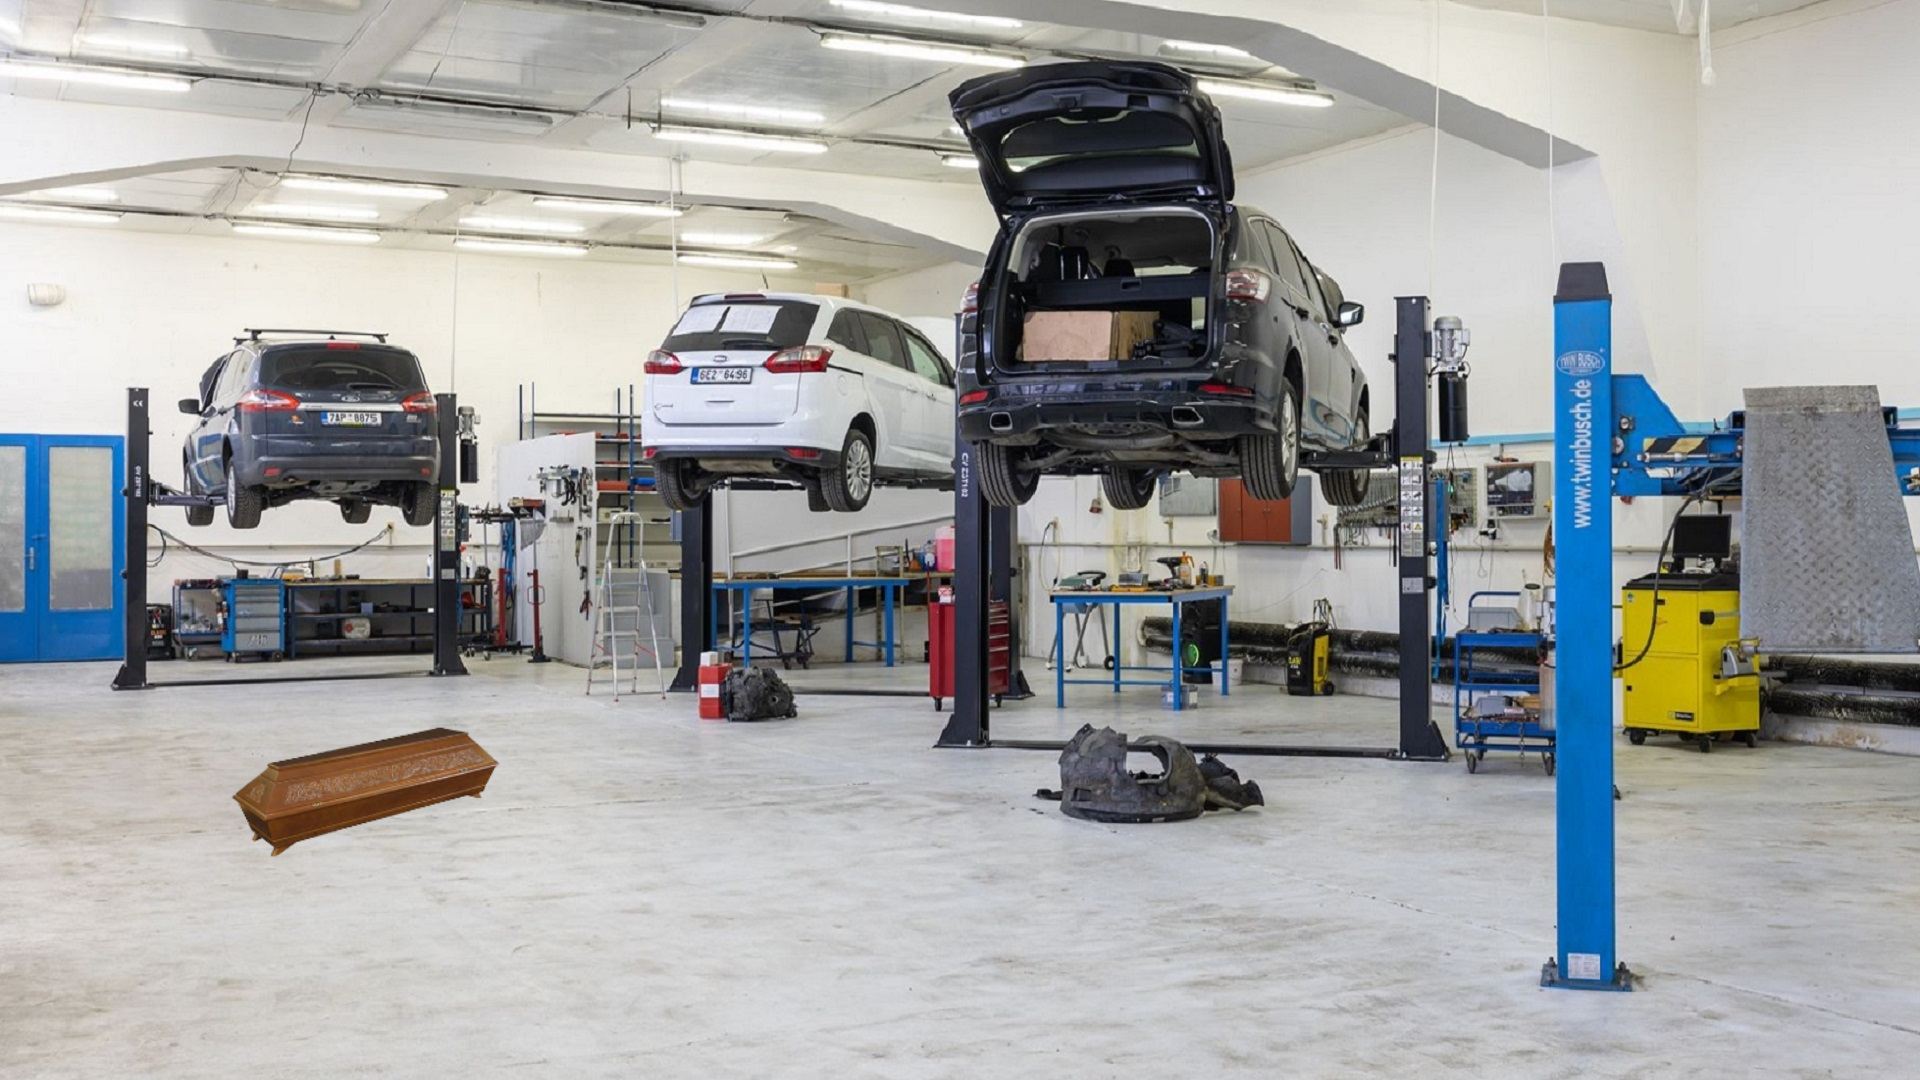
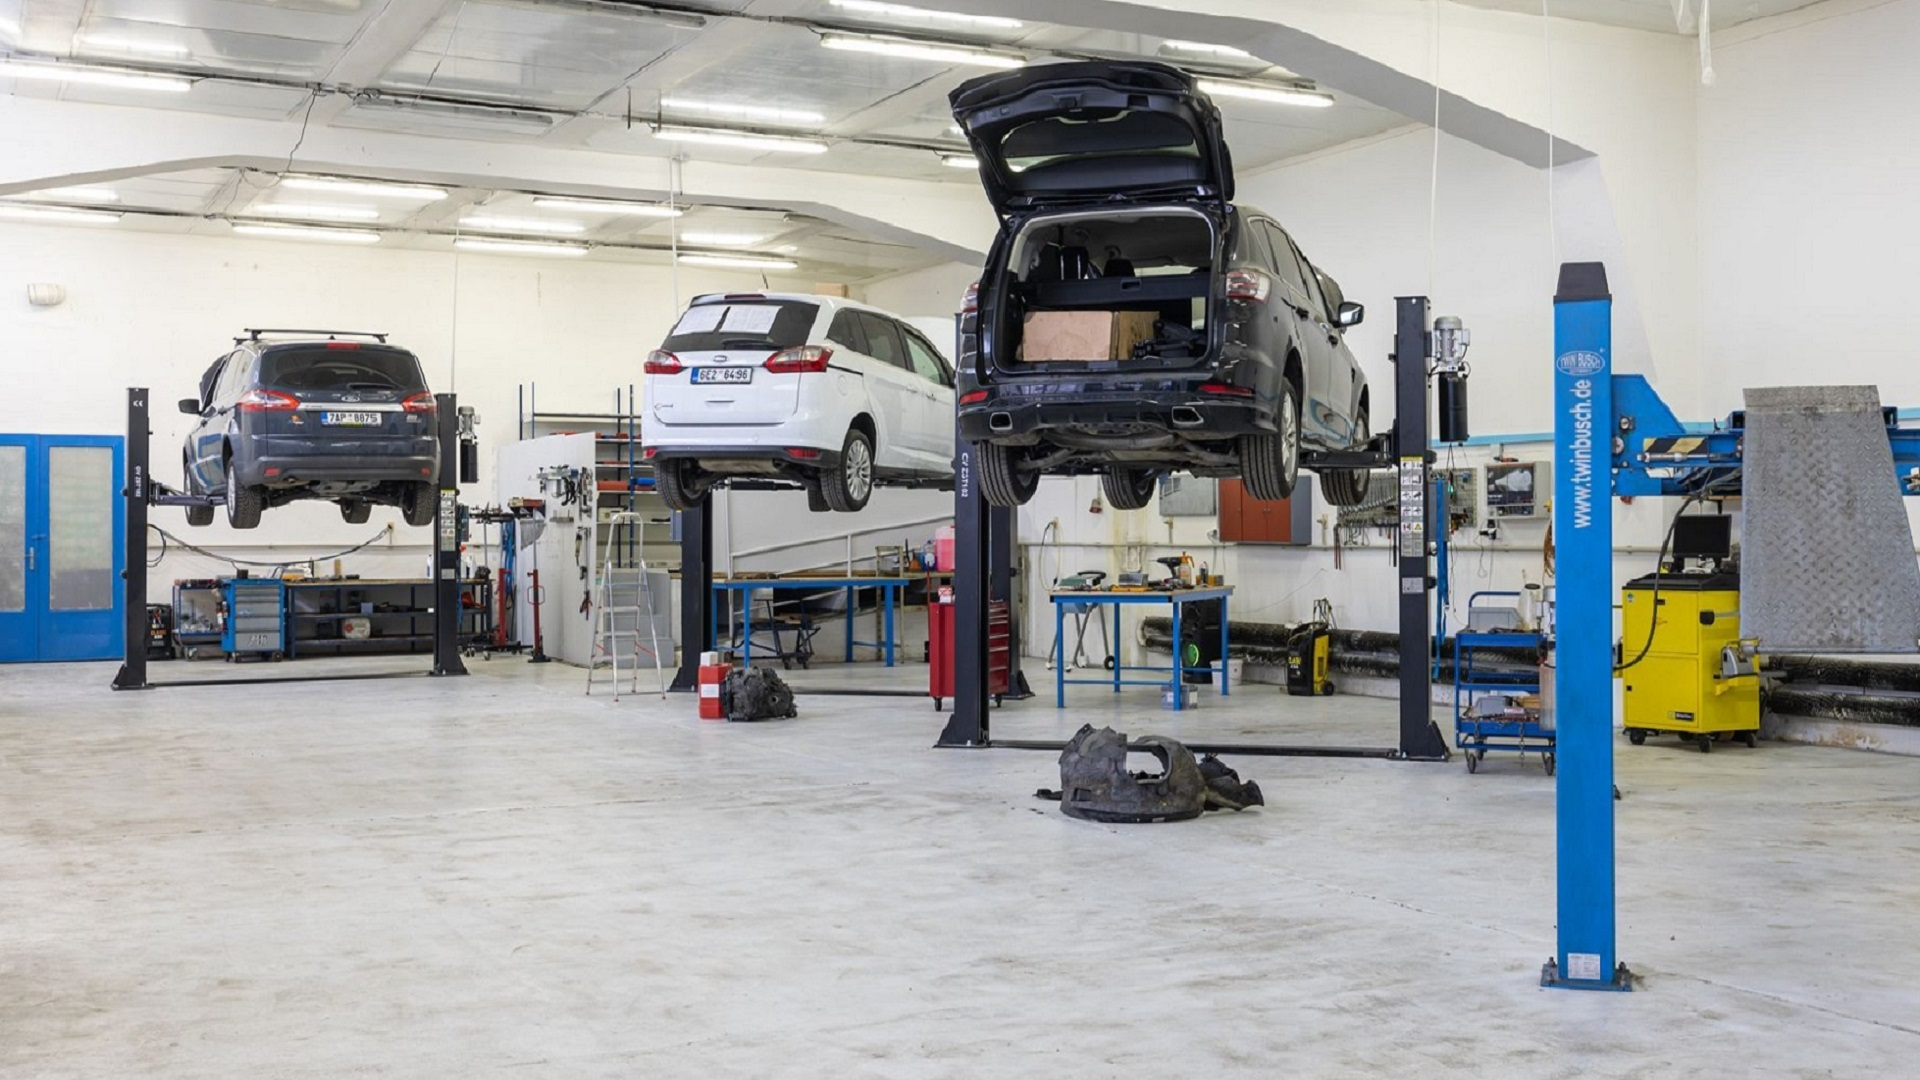
Init

Changed region(s): [[0.125, 0.6722, 0.2812, 0.7944]]

diff --git a/res/css/style.css b/res/css/style.css
@@ -41,6 +41,8 @@
   height: 1080px;
   display: none;
   background: none;
+  background-size: contain;
+  background-repeat: no-repeat;
 }
 
 #back {
@@ -53,22 +55,30 @@
   cursor: pointer;
 }
 
-#dead-info ul {
+#dead ul {
   list-style-type: none;
   padding: 0px;
   margin: 0px;
 }
 
-#dead-info {
+#dead {
+  display: none;
   background-color: #fff;
   border: 1px #000 solid;
   border-radius: 10px;
   max-width: 40%;
   float: right;
   margin: 1%;
-  margin-top: 35%;
-  margin-right: 20%;
+  margin-top: 25%;
+  margin-right: 25%;
   padding: 1%;
+}
+
+#rakev {
+  width: 15%;
+  margin-top: 37%;
+  margin-left: -18%;
+  cursor: pointer;
 }
 /* Konec stylu oběti */
 

diff --git a/res/js/main.js b/res/js/main.js
@@ -4,6 +4,8 @@ const route3 = document.getElementById("route3");
 
 const back = document.getElementById("back");
 
+const rakev = document.getElementById("rakev")
+
 route1.onclick = () => {
   servis.style.backgroundImage = "url(./res/img/servis.png)";
   route1.style.display = "none";
@@ -23,3 +25,7 @@ back.onclick = () => {
   cross.style.display = "block";
   servis.style.display = "none";
 };
+
+rakev.onclick = () => {
+  dead.style.display = "block";
+}

diff --git a/index.html b/index.html
@@ -17,7 +17,9 @@
     <div id="servis">
       <button id="back" class="btn-servis">Zpět na křižovatku</button>
 
-      <div id="dead-info"> <br>
+      <img src="./res/img/rakev.png" alt="rakev" id="rakev">
+
+      <div id="dead"> <br>
         <ul>
           <li>Mrtvý: Alfréd Kolejný</li><br>
           <li>Věk: 48 let</li><br>
